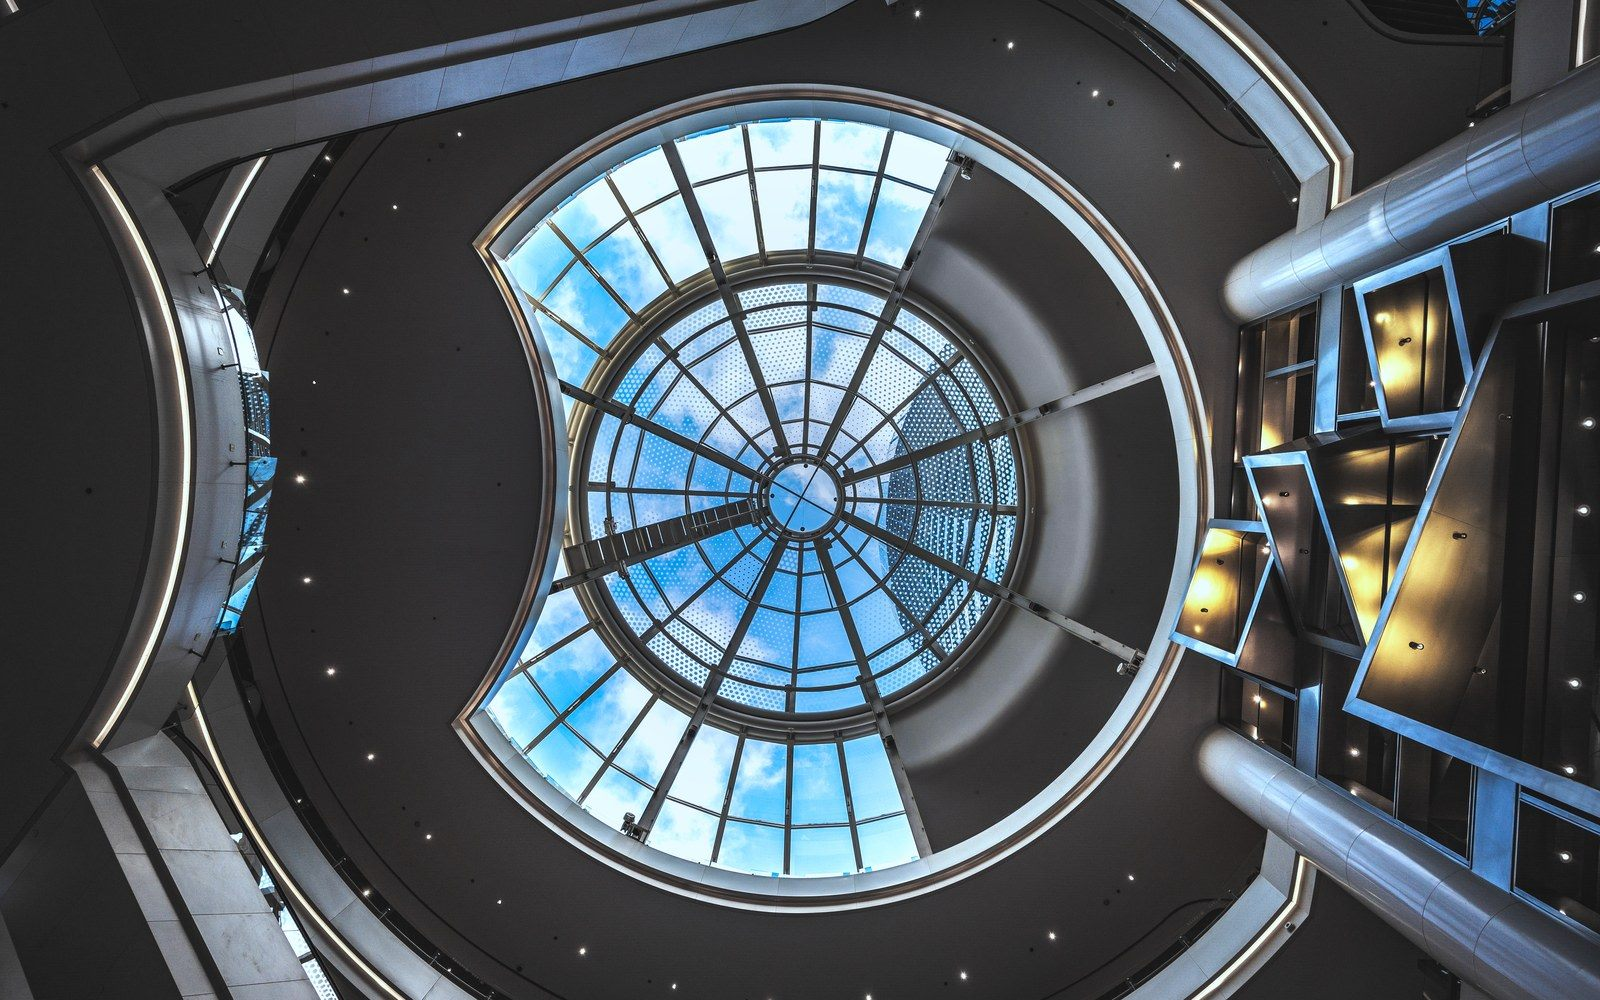
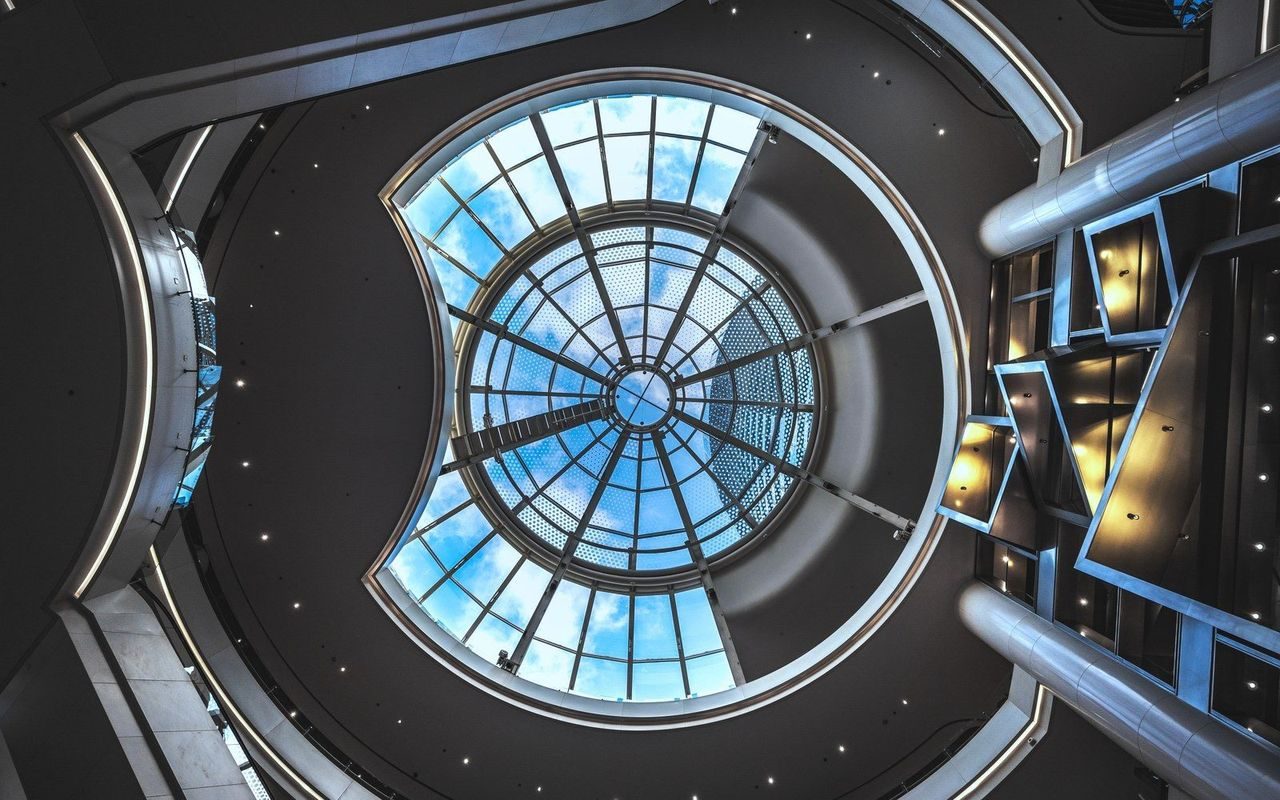
Perf: lazy-load gallery thumbs, compress hero and QR

diff --git a/js/app.js b/js/app.js
@@ -518,11 +518,21 @@
         image.height = 900;
         if (img.ratio) image.style.aspectRatio = img.ratio;
         image.addEventListener("error", () => {
-          const fb = el("div", "media-fallback", DEFAULTS.imageFallback);
-          fb.style.aspectRatio = "4 / 3";
-          item.replaceChildren(fb);
+          if (curSrc !== img.file && img.file) {
+            curSrc = img.file;
+            image.src = img.file;
+          } else {
+            const fb = el("div", "media-fallback", DEFAULTS.imageFallback);
+            fb.style.aspectRatio = "4 / 3";
+            item.replaceChildren(fb);
+          }
         });
-        if (img.file) image.src = img.file;
+        let curSrc = img.file;
+        if (img.file) {
+          const thumb = img.file.replace(/^assets\/(images|videos|ecommerce|photos2|drama)\//, "assets/thumbs/");
+          if (thumb !== img.file) curSrc = thumb;
+          image.src = curSrc;
+        }
         item.appendChild(image);
 
         const caption = el("div", "gallery-caption");
